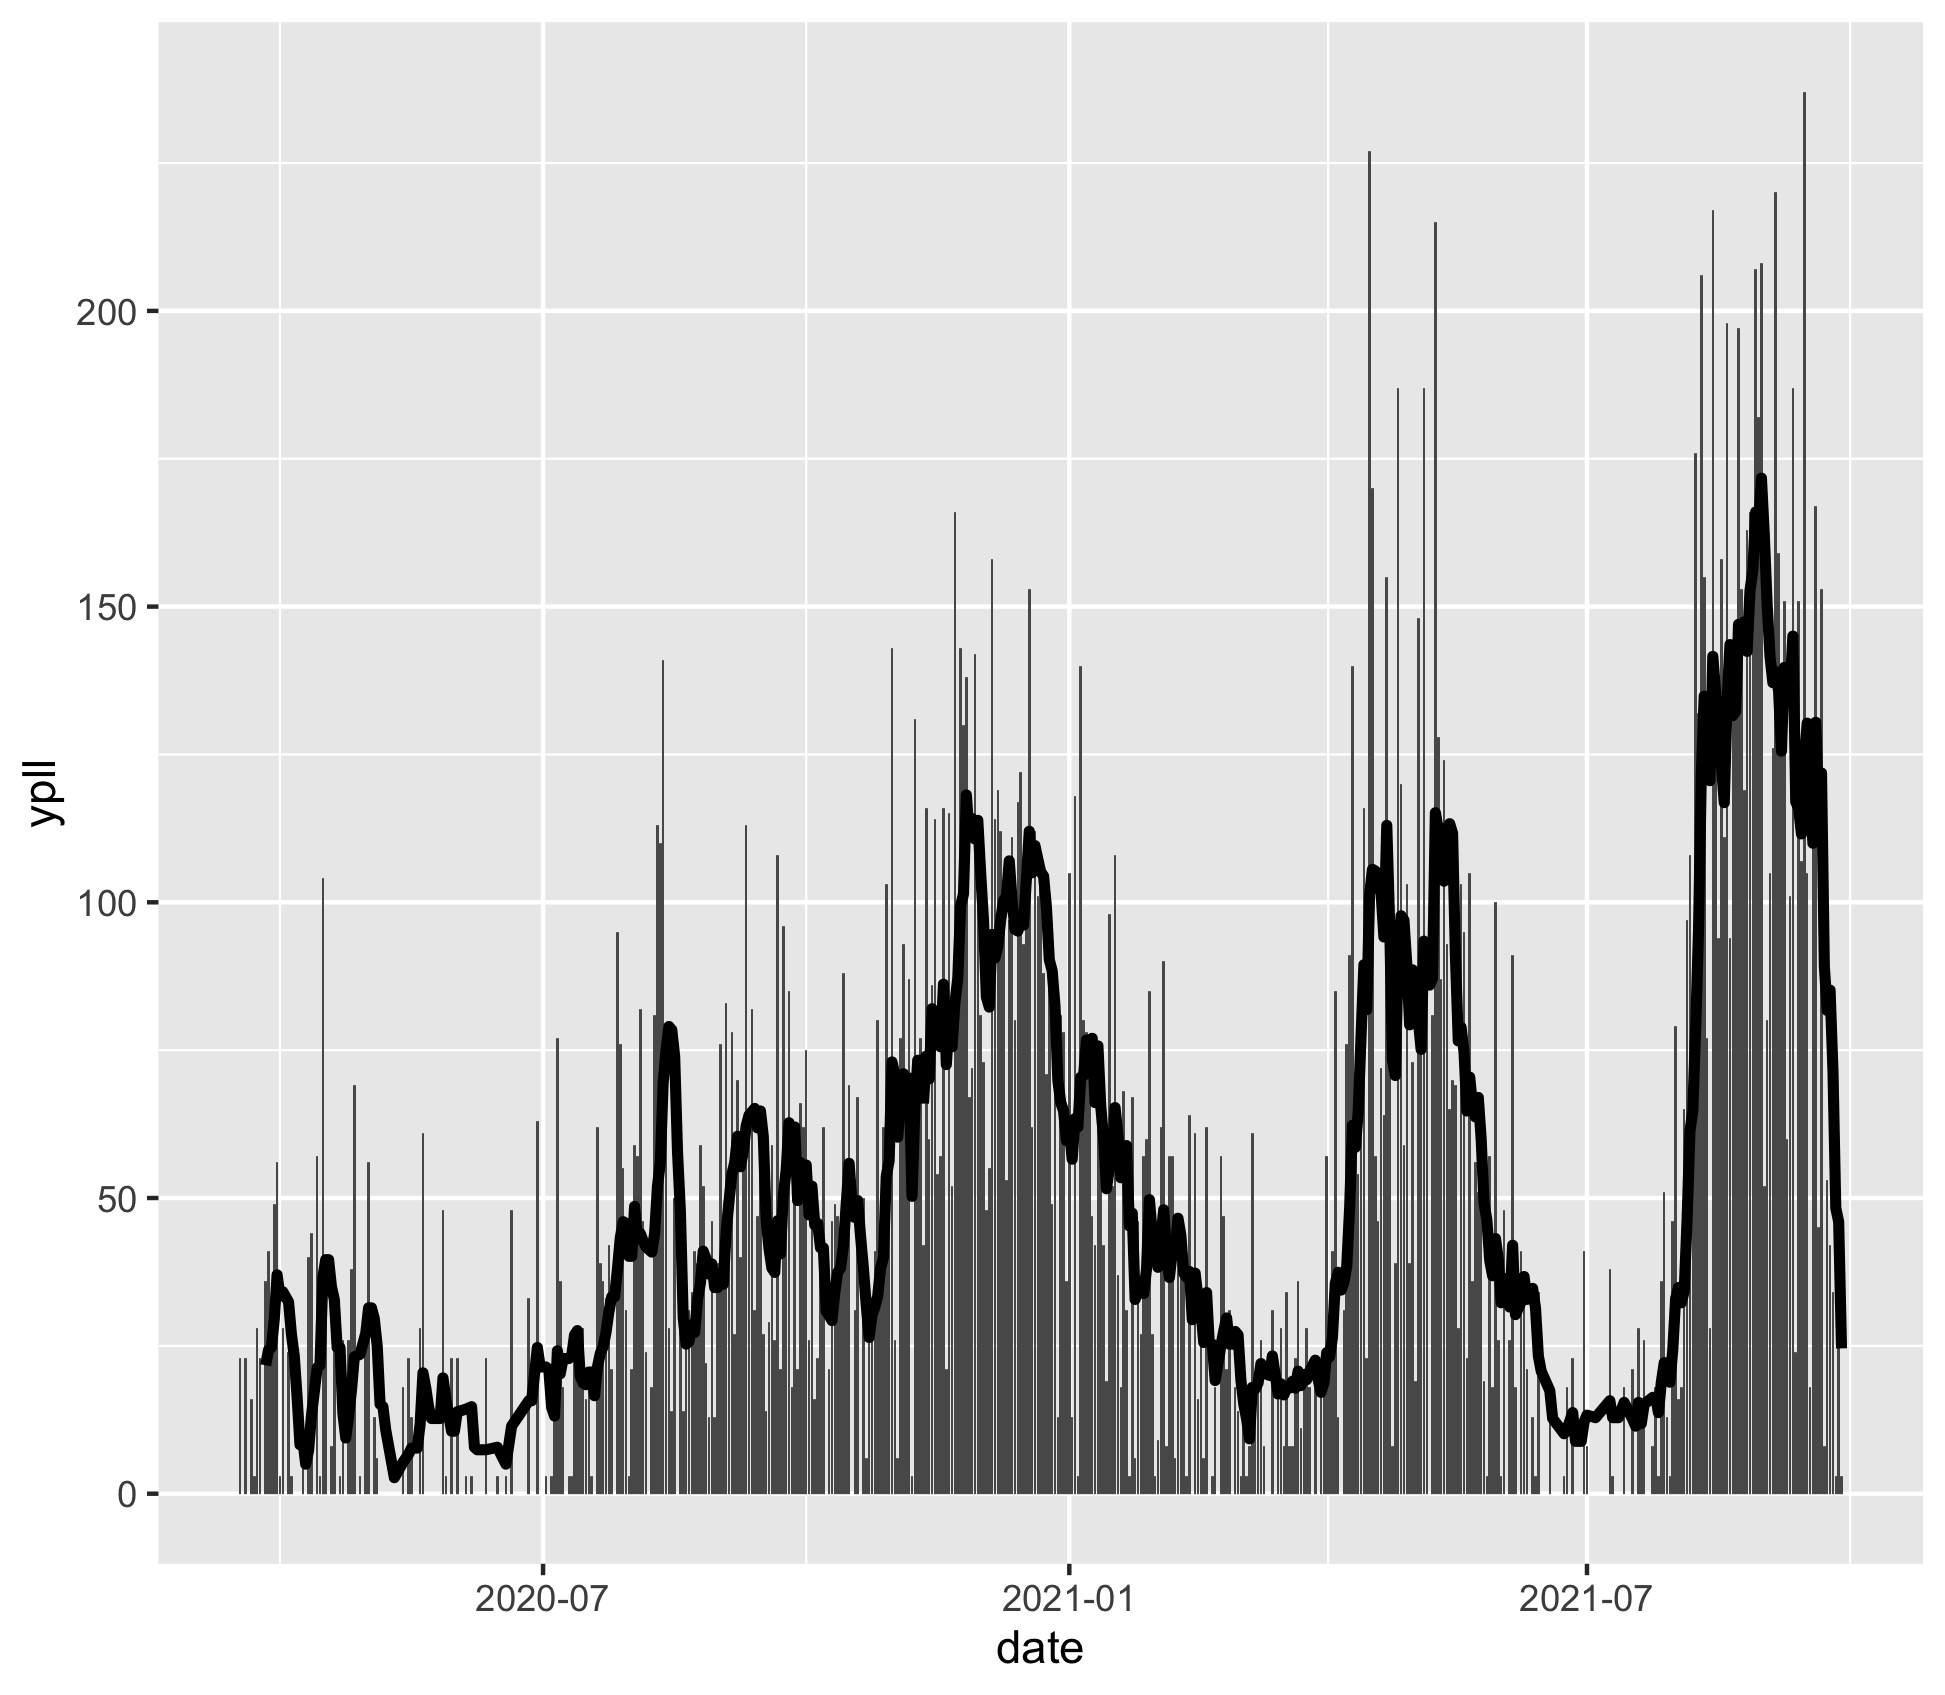
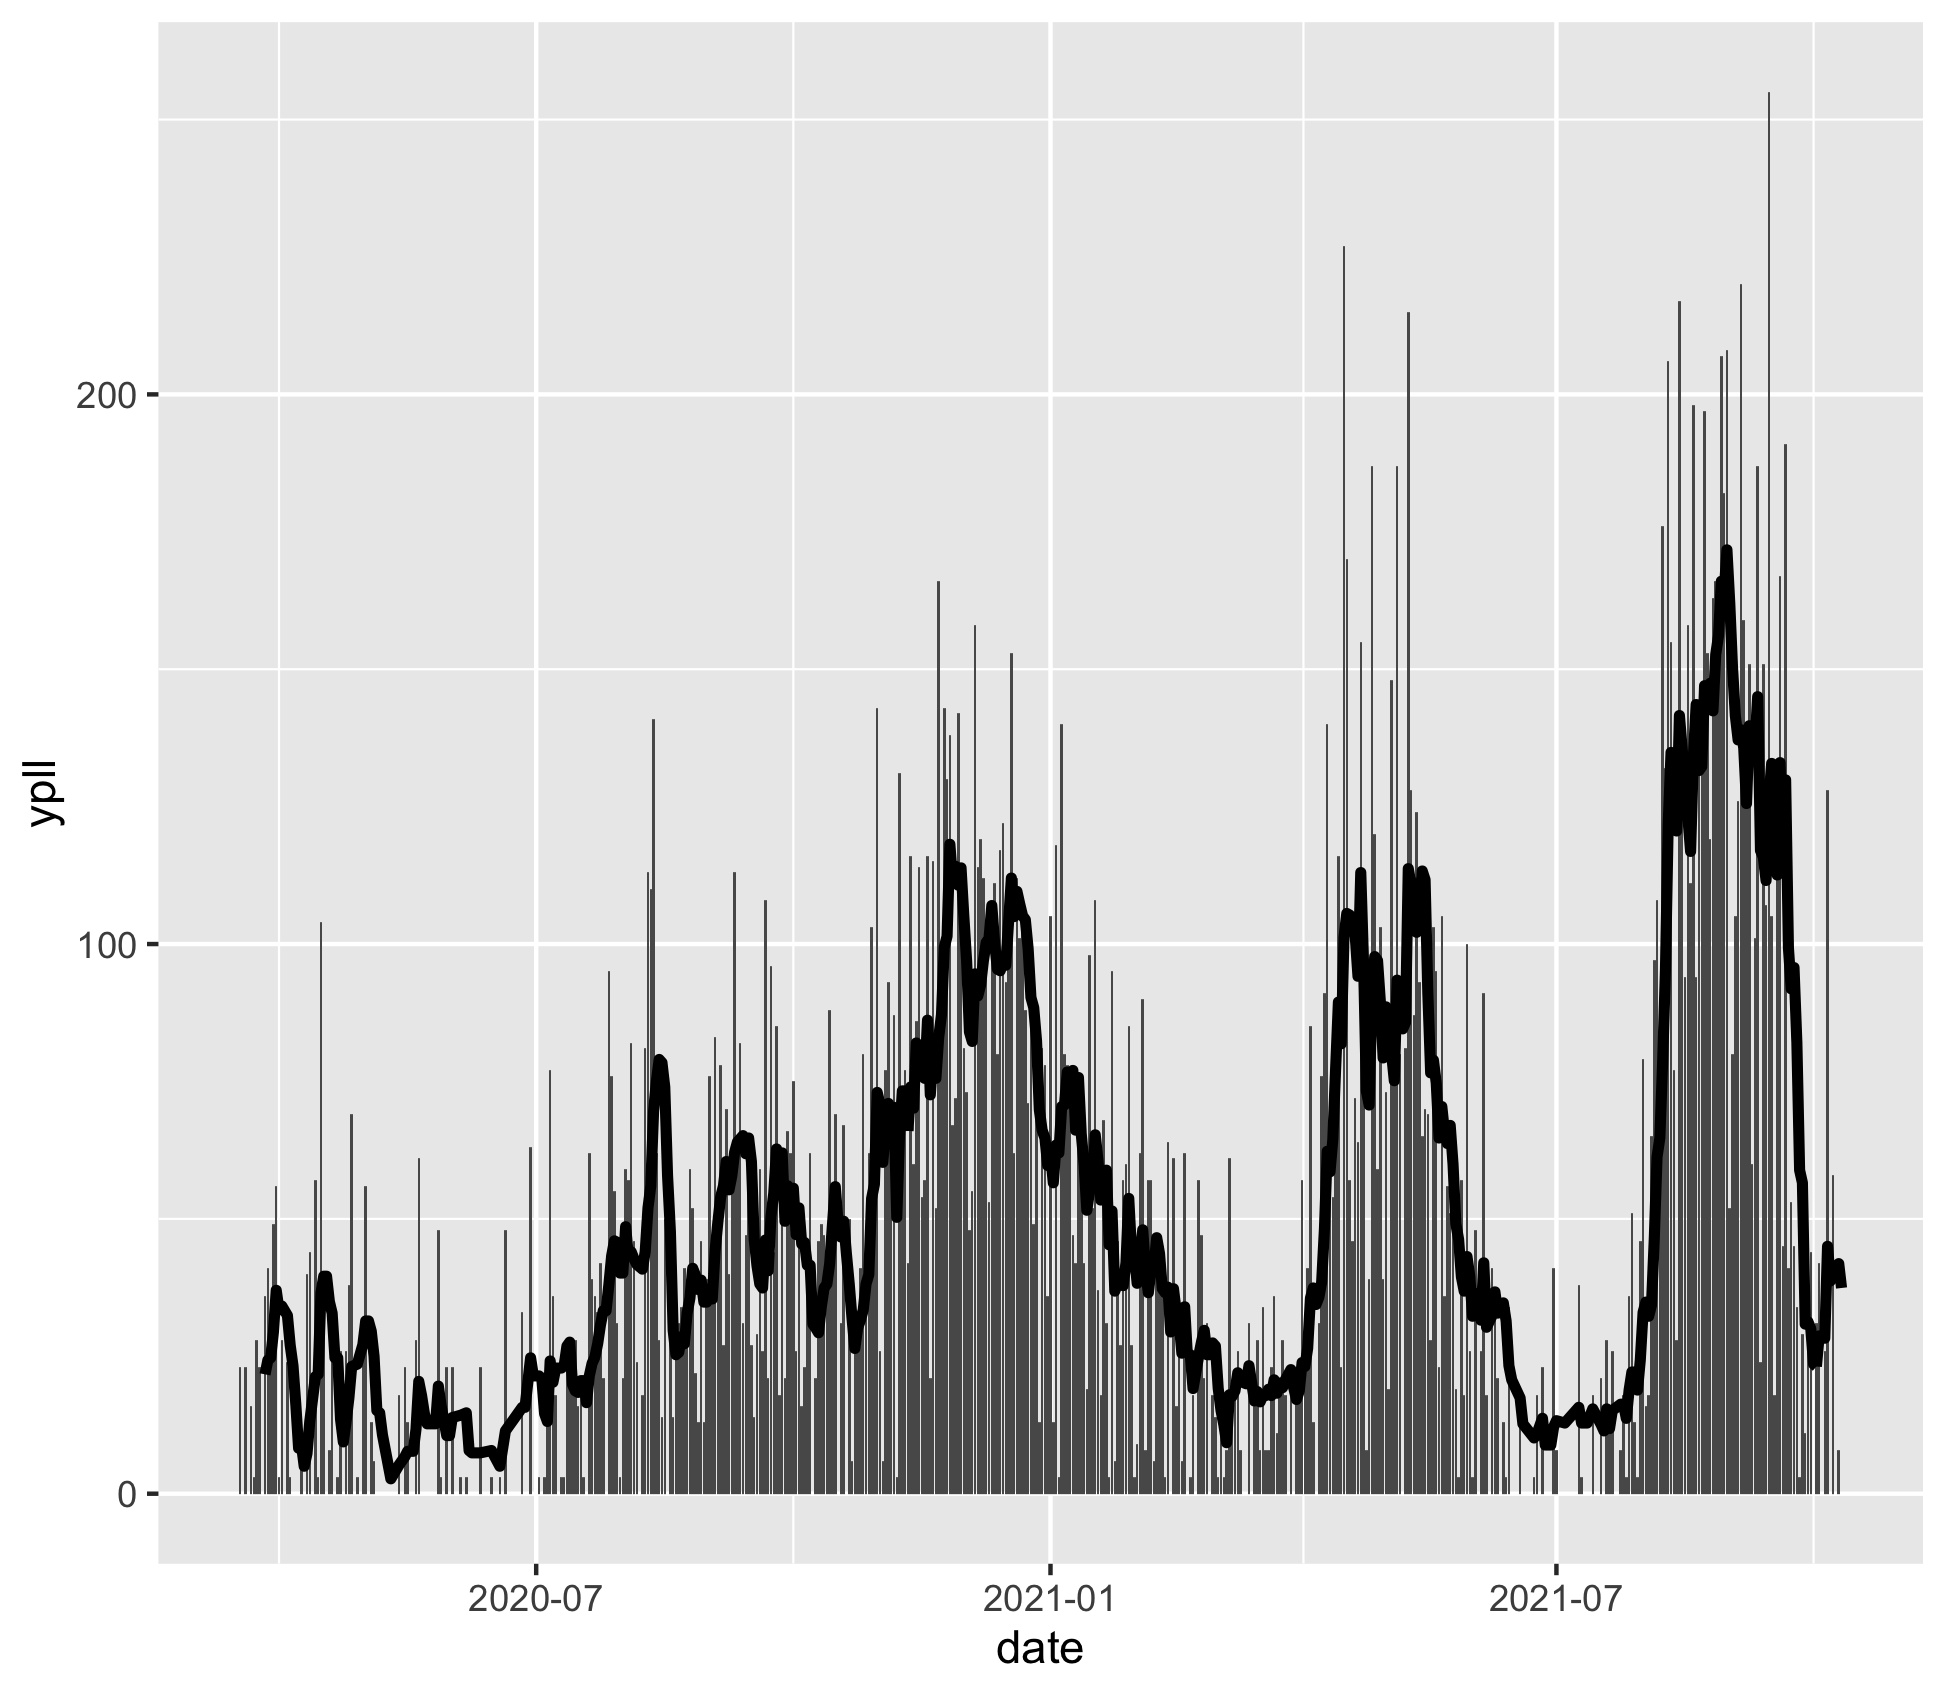
Updated white paper, new plots

diff --git a/README.md b/README.md
@@ -1,17 +1,73 @@
 # Years of Potential Life Lost in PR due to COVID-19
 
-Code to compute and plot YPLL from the Department of Health data.
+Humberto Ortiz-Zuazaga  
+2021-10-11
 
-Based on Rafael Irizarry's COVID-19 dashboard: https://github.com/rafalab/pr-covid
+## Abstract
 
-## Cumulative YPLL
+In 2021, Puerto Rico has had three waves of COVID-19. Anectotally, there have
+been more young victims in the third wave than in prior waves. Years of
+Potential life lost, or YPLL, is an indicator used in public health to quantify
+the loss in expected life due to a condition. We used YPLL to examine the
+effects of COVID-19 in Puerto Rico, using data published by the PR Department of
+Health. We find that although the absolute number of death has decreased, the
+accumulated YPLL for the second wave was nearly the same as the first, and the
+third wave is even higher.
+
+## Introduction
+
+The press has reported twice in September on the deaths of a five and a [six
+year old
+girl](https://www.elnuevodia.com/noticias/locales/notas/la-nina-de-seis-anos-que-murio-de-covid-19-se-contagio-en-su-entorno-familiar/)
+from COVID-19 in Puerto Rico, adding to a number of younger and younger reported
+deaths. We decided to investigate if these represented a trend, or were simply
+unfortunate outliers. Years of Potential Life Lost
+([YPLL](https://www.cdc.gov/injury/wisqars/fatal_help/definitions_ypll.html)) is
+an indicator that can quantify the (expected) lost years of life due to a
+disease or process. It is calculated by subtracting the actual age of death from
+a standard expected age. For deaths ocurring after the expected age, no
+contribution to the YPLL is added.
+
+## Methods
+
+We developed code in R to compute and plot the YPLL from data published by the
+Puerto Rico Department of Health. The code makes extensive use of code developed
+by Rafael Irizarry for his COVID dashboard (http://tpr.covidpr.info).
+
+The PRDH reports an age range for each death. For each death, we compute the
+average age in the age range, and if it is less than 75, we compute the
+difference and add it to the YPLL. Life expectancy in Puerto Rico was nearly 80
+prior to the pandemic, [according to the World
+Bank](https://data.worldbank.org/indicator/SP.DYN.LE00.IN?locations=PR&view=chart).
+
+The code for this analysis is available in github: https://github.com/humberto-ortiz/pr-ypll
+
+## Results
+
+### Cumulative YPLL
 
 ![Sum total Years of Potential Live Lost due to COVID-19 in Puerto Rico](ypll-cumul.png)
 
-## Mortality
+### Mortality
 
 ![Deaths from COVID-19 in Puerto Rico](muertes.png)
 
-## YPLL
+### YPLL
 
 ![YPLL in Puerto Rico due to COVID-19](ypll.png)
+
+## Discussion
+
+## Acknowledgements
+
+Rafael Irizarry for his open source dashboard. Jose Conde for advice and
+inspiration, especially regarding YPLL. Mary Torres for convincing me to work on
+this issue. HOZ was supported in part by Institutional Development Award (IDeA)
+INBRE grant P20 GM103475 from the National Institute for General Medical
+Sciences (NIGMS), a component of the National Institutes of Health (NIH).
+
+## References
+
+Code to compute and plot YPLL from the Department of Health data.
+
+Based on Rafael Irizarry's COVID-19 dashboard: https://github.com/rafalab/pr-covid
